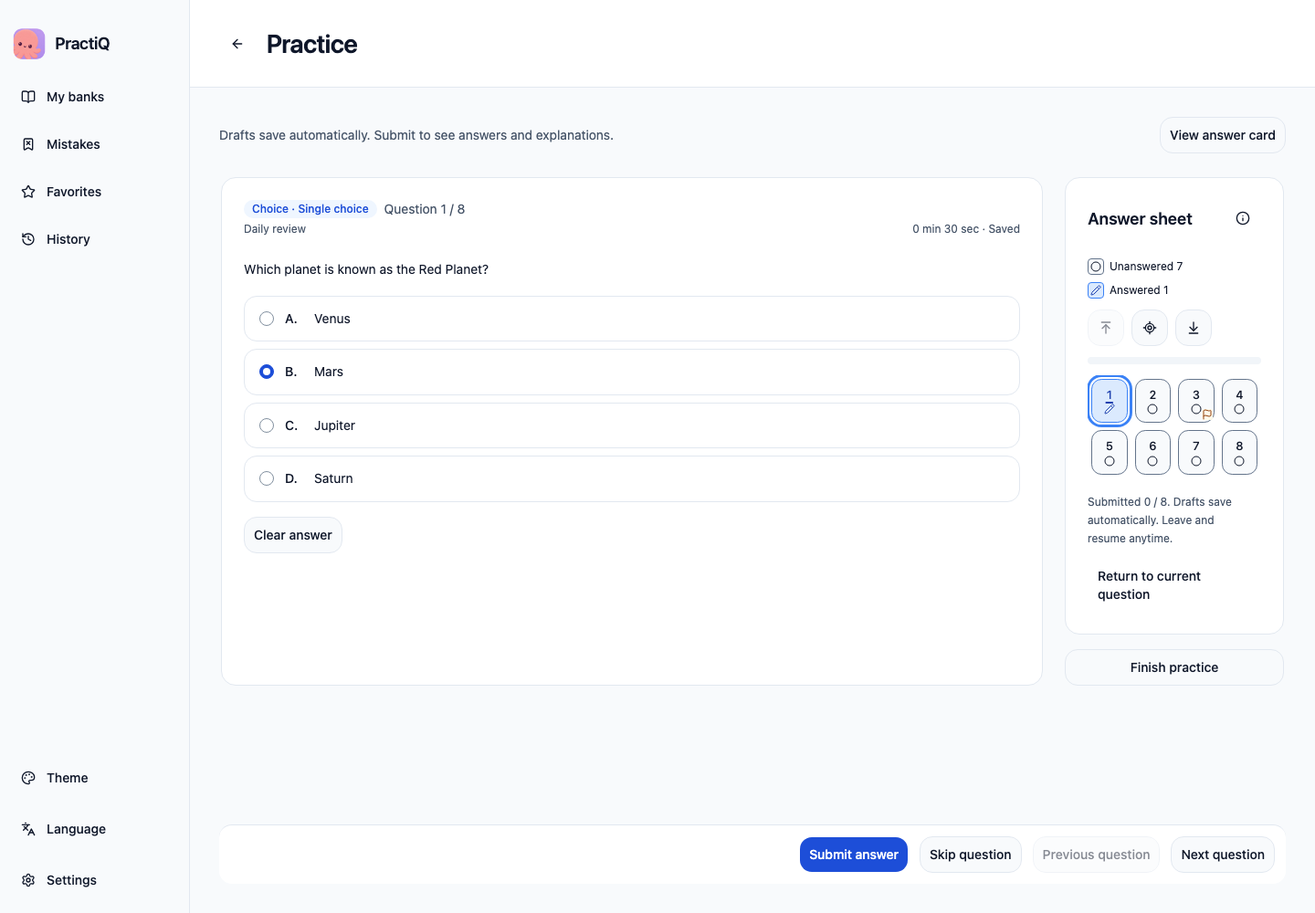
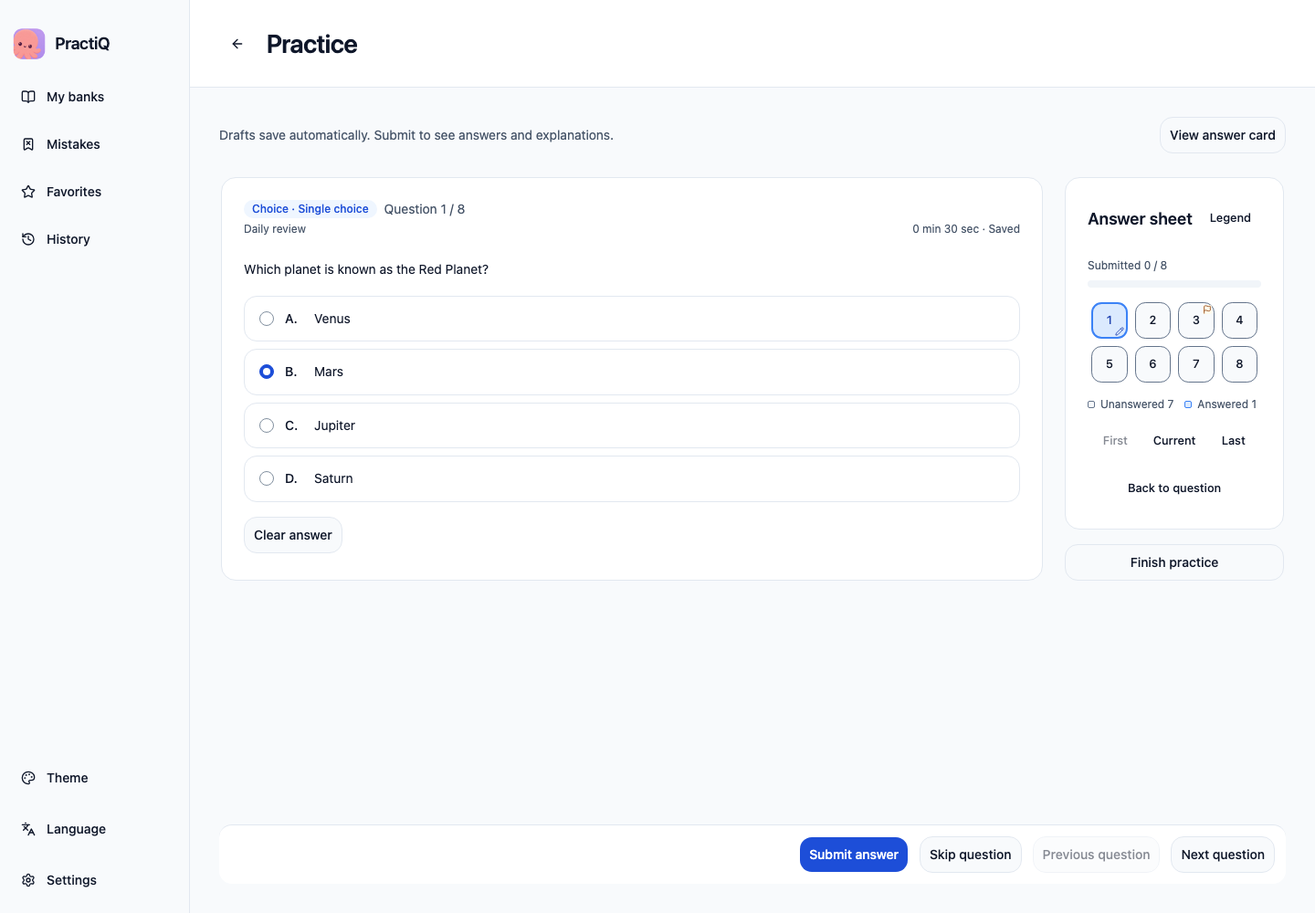
refactor(app): simplify the answer sheet (#467)
* refactor(app): simplify the answer sheet

* docs(readme): refresh captures for the simplified answer sheet

* fix(app): keep the answer sheet finish action reachable

* docs(readme): refresh captures after the answer sheet fix

Changed region(s): [[0.8125, 0.279, 0.9688, 0.682], [0.9062, 0.217, 0.9688, 0.248], [0.875, 0.713, 0.9375, 0.744]]

diff --git a/app/src/Practice.tsx b/app/src/Practice.tsx
@@ -18,7 +18,7 @@ import { Badge } from "@/components/ui/badge";
 import { Card, CardContent, CardHeader, CardTitle } from "@/components/ui/card";
 import { Popover } from "radix-ui";
 import { Dialog, DialogContent, DialogHeader, DialogTitle, DialogTrigger } from "@/components/ui/dialog";
-import { Info, Check, X, SkipForward, Pencil, Circle, CircleDashed, CircleDot, Flag, ArrowUpToLine, ArrowDownToLine, LocateFixed, Star } from "lucide-react";
+import { Check, X, SkipForward, Pencil, CircleDashed, CircleDot, Flag, LocateFixed, Star } from "lucide-react";
 import { AlertDialog, AlertDialogContent, AlertDialogHeader, AlertDialogTitle, AlertDialogDescription, AlertDialogFooter, AlertDialogCancel } from "@/components/ui/alert-dialog";
 import { Content, Markdown, type MaterialReading } from "./Content";
 import { AnswerInput, AnswerDisplay, AnswerReview } from "./AnswerInput";
@@ -87,7 +87,7 @@ export function Practice(props: PracticeProps) {
     {listening && <ListeningPlayer key={`${session.id}-${listening.id}-${listening.audioRef?.sha256}`} question={listening} session={session}/>}
     <div className="grid grid-cols-1 gap-6 @2xl:grid-cols-[minmax(0,1fr)_240px]">
       <PracticeQuestion key={`${session.id}-${session.position}`} {...props} navigating={navigating} go={go} onDraft={onDraft} questionHeading={questionHeading} materialReading={materialReading} actionsContainer={actionsContainer}/>
-      <aside className="min-w-0 self-start space-y-4 @2xl:sticky @2xl:top-0">
+      <aside className="min-w-0 self-start space-y-4">
         <details ref={answerCard} className="practice-answer-card" open={!props.compact}>
           <summary className="font-medium">{t("答题卡")} · {t("第 {0} / {1} 题", {0:session.position + 1,1:session.attempts.length})}</summary>
           <AnswerCard key={session.id} session={session} answer={answer} exam={exam} go={go} boundary={scrollBoundary} compact={!!props.compact}/>
@@ -461,7 +461,7 @@ function hasAnswer(value: unknown): boolean {
 }
 
 const answerCardStates = {
-  unanswered: { label: "未作答", Marker: Circle },
+  unanswered: { label: "未作答", Marker: null },
   answered: { label: "已作答", Marker: Pencil },
   draft: { label: "草稿", Marker: Pencil },
   correct: { label: "正确", Marker: Check },
@@ -498,15 +498,15 @@ const AnswerCardItem = memo(function AnswerCardItem({ordinal, current, state, st
                   size="sm"
                   variant="outline"
                   data-answer-state={status}
-                  className="answer-card-item relative h-auto min-h-10 flex-col gap-0 px-1 py-1"
+                  className="answer-card-item relative h-10 min-h-10 gap-0 px-1 py-1"
                   aria-current={current ? "step" : undefined}
                   aria-label={t("转到第 {0} 题，{1}{2}", { 0: ordinal + 1, 1: state, 2: flagged ? t("，待检查") : "" })}
                   title={`${state}${flagged ? t("，待检查") : ""}`}
                   onClick={() => go(ordinal)}
                 >
-                  <span>{ordinal + 1}</span>
-                  <Marker className="size-3" aria-hidden="true" focusable="false"/>
-                  {flagged && <Flag className="answer-card-flag size-3" aria-hidden="true" focusable="false"/>}
+                  <span className="leading-none">{ordinal + 1}</span>
+                  {Marker && <Marker className="answer-card-marker size-2.5" aria-hidden="true" focusable="false"/>}
+                  {flagged && <Flag className="answer-card-flag size-2.5" aria-hidden="true" focusable="false"/>}
                 </Button>
   );
 });
@@ -515,7 +515,7 @@ function AnswerCardLegend({exam}: {exam: boolean}) {
   return <>
                   <h4 className="mb-2 text-sm font-medium">{t("作答与判定状态")}</h4>
                   <p className="answer-card-legend grid grid-cols-2 gap-x-2 gap-y-2 text-sm text-muted-foreground">
-                    {Object.entries(answerCardStates).filter(([status]) => exam || status !== "partial").map(([status, { label, Marker }]) => <span key={status} className="flex items-center gap-1.5"><span className="answer-card-swatch" data-answer-state={status}><Marker className="size-3" aria-hidden="true"/></span>{t(status === "incorrect" && exam ? "未得满分" : label)}</span>)}
+                    {Object.entries(answerCardStates).filter(([status]) => exam || status !== "partial").map(([status, { label, Marker }]) => <span key={status} className="flex items-center gap-1.5"><span className="answer-card-swatch" data-answer-state={status}>{Marker && <Marker className="size-3" aria-hidden="true"/>}</span>{t(status === "incorrect" && exam ? "未得满分" : label)}</span>)}
                   </p>
                   <h4 className="mb-2 mt-4 text-sm font-medium">{t("位置与检查标记")}</h4>
                   <p className="answer-card-legend grid grid-cols-2 gap-2 text-sm text-muted-foreground">
@@ -532,6 +532,7 @@ const AnswerCard = memo(function AnswerCard({session, answer, exam, go, boundary
   const grid = useRef<HTMLDivElement>(null);
   const finished = session.finishedAt !== null || (exam && session.submittedAt != null);
   const states = session.attempts.map(a => answerState(a, a.ordinal === session.position ? answer : a.answer, exam));
+  const progress = session.attempts.filter(a => exam ? hasAnswer(a.ordinal === session.position ? answer : a.answer) : a.submittedAt != null).length;
   const revealCurrent = useCallback((focus = false) => {
     const container = grid.current;
     const current = container?.querySelector<HTMLElement>('[aria-current="step"]');
@@ -547,7 +548,7 @@ const AnswerCard = memo(function AnswerCard({session, answer, exam, go, boundary
             <CardTitle>{t("答题卡")}</CardTitle>
             {compact ? <Dialog>
               <DialogTrigger asChild>
-                <Button variant="ghost" size="icon" aria-label={t("答题卡状态说明")} title={t("答题卡状态说明")}><Info/></Button>
+                <Button variant="ghost" size="sm" aria-label={t("答题卡状态说明")}>{t("状态说明")}</Button>
               </DialogTrigger>
               <DialogContent className="flex max-h-[90dvh] flex-col" aria-describedby={undefined}>
                 <DialogHeader><DialogTitle className="pr-10">{t("答题卡状态说明")}</DialogTitle></DialogHeader>
@@ -556,7 +557,7 @@ const AnswerCard = memo(function AnswerCard({session, answer, exam, go, boundary
             </Dialog> : (
             <Popover.Root>
               <Popover.Trigger asChild>
-                <Button variant="ghost" size="icon" aria-label={t("答题卡状态说明")} title={t("答题卡状态说明")}><Info/></Button>
+                <Button variant="ghost" size="sm" aria-label={t("答题卡状态说明")}>{t("状态说明")}</Button>
               </Popover.Trigger>
               <Popover.Portal>
                 <Popover.Content className="answer-card-help z-50" side="top" align="end" sideOffset={8} collisionBoundary={boundary} collisionPadding={12} aria-label={t("答题卡状态说明")}>
@@ -571,16 +572,11 @@ const AnswerCard = memo(function AnswerCard({session, answer, exam, go, boundary
             </Popover.Root>
             )}
           </CardHeader>
-          <CardContent>
-            <p className="answer-card-legend mb-3 flex flex-wrap gap-x-3 gap-y-2 text-xs" aria-label={t("本次题目状态")}>
-              {Object.entries(answerCardStates).filter(([status]) => states.some(state => state.status === status)).map(([status, { label, Marker }]) => <span key={status} className="flex items-center gap-1.5"><span className="answer-card-swatch" data-answer-state={status}><Marker className="size-3" aria-hidden="true"/></span>{t(status === "incorrect" && exam ? "未得满分" : label)} {states.filter(state => state.status === status).length}</span>)}
-            </p>
-            <div className="mb-3 flex gap-2">
-              <Button variant="outline" size="icon" aria-label={t("转到第一题")} title={t("转到第一题")} disabled={session.position === 0} onClick={() => go(0)}><ArrowUpToLine/></Button>
-              <Button variant="outline" size="icon" aria-label={t("定位当前题")} title={t("定位当前题")} onClick={() => revealCurrent(true)}><LocateFixed/></Button>
-              <Button variant="outline" size="icon" aria-label={t("转到最后一题")} title={t("转到最后一题")} disabled={session.position === session.attempts.length - 1} onClick={() => go(session.attempts.length - 1)}><ArrowDownToLine/></Button>
+          <CardContent className="flex flex-col gap-3">
+            <div className="flex flex-col gap-2">
+              <p className="text-xs text-muted-foreground">{t("{0} {1} / {2}", { 0: exam ? t("已作答") : t("已提交"), 1: progress, 2: session.attempts.length })}</p>
+              <progress className="practice-progress" aria-label={exam ? t("作答进度") : t("提交进度")} max={Math.max(1, session.attempts.length)} value={progress}/>
             </div>
-            <progress className="practice-progress mb-3" aria-label={exam ? t("作答进度") : t("提交进度")} max={Math.max(1, session.attempts.length)} value={session.attempts.filter(a => exam ? hasAnswer(a.ordinal === session.position ? answer : a.answer) : a.submittedAt != null).length}/>
             <div id="answer-card" ref={grid} role="region" aria-label={t("答题卡")} tabIndex={0} className="answer-card-grid relative grid max-h-[min(45vh,24rem)] grid-cols-4 gap-2 overflow-y-auto rounded-sm p-1 outline-none focus-visible:ring-3 focus-visible:ring-ring">
               {session.attempts.map((a, index) => {
                 const current = a.ordinal === session.position;
@@ -588,8 +584,16 @@ const AnswerCard = memo(function AnswerCard({session, answer, exam, go, boundary
                 return <AnswerCardItem key={a.ordinal} ordinal={a.ordinal} current={current} state={state.label} status={state.status} flagged={!!a.flagged} go={go}/>;
               })}
             </div>
-            <p className="mt-4 text-xs leading-5 text-muted-foreground">{finished ? t("本次共 {0} 题，作答已锁定；可切换题目回顾。", {0:session.attempts.length}) : t("{0} {1} / {2}。草稿自动保存，可随时离开后继续。", { 0: exam ? t("已作答") : t("已提交"), 1: session.attempts.filter((a) => exam ? hasAnswer(a.ordinal === session.position ? answer : a.answer) : a.submittedAt != null).length, 2: session.attempts.length })}</p>
-            <Button asChild variant="ghost" className="mt-3 w-full"><a href="#current-question">{t("返回当前题")}</a></Button>
+            <p className="answer-card-legend answer-card-counts flex flex-wrap gap-x-3 gap-y-1 text-xs text-muted-foreground" aria-label={t("本次题目状态")}>
+              {Object.entries(answerCardStates).filter(([status]) => states.some(state => state.status === status)).map(([status, { label }]) => <span key={status} className="flex items-center gap-1.5"><span className="answer-card-swatch" data-answer-state={status} aria-hidden="true"/>{t(status === "incorrect" && exam ? "未得满分" : label)} {states.filter(state => state.status === status).length}</span>)}
+            </p>
+            {finished && <p className="text-xs leading-5 text-muted-foreground">{t("本次共 {0} 题，作答已锁定；可切换题目回顾。", {0:session.attempts.length})}</p>}
+            <nav className="grid grid-cols-3 gap-1" aria-label={t("答题卡")}>
+              <Button variant="ghost" size="sm" className="min-w-0 px-1" aria-label={t("转到第一题")} disabled={session.position === 0} onClick={() => go(0)}>{t("首题")}</Button>
+              <Button variant="ghost" size="sm" className="min-w-0 px-1" aria-label={t("定位当前题")} onClick={() => revealCurrent(true)}>{t("当前题")}</Button>
+              <Button variant="ghost" size="sm" className="min-w-0 px-1" aria-label={t("转到最后一题")} disabled={session.position === session.attempts.length - 1} onClick={() => go(session.attempts.length - 1)}>{t("末题")}</Button>
+            </nav>
+            <Button asChild variant="ghost" size="sm" className="w-full"><a href="#current-question">{t("返回题目")}</a></Button>
           </CardContent>
         </Card>
   );

diff --git a/app/src/AnswerCardStatus.test.tsx b/app/src/AnswerCardStatus.test.tsx
@@ -21,8 +21,8 @@ function session(attempts: Partial<Attempt>[], exam = false): Session {
 }
 
 it.each([
-  { attempt: {}, label: "未作答", status: "unanswered", marker: "circle", legend: "未作答" },
-  { attempt: { answer: { text: "  " } }, label: "未作答", status: "unanswered", marker: "circle", legend: "未作答" },
+  { attempt: {}, label: "未作答", status: "unanswered", marker: null, legend: "未作答" },
+  { attempt: { answer: { text: "  " } }, label: "未作答", status: "unanswered", marker: null, legend: "未作答" },
   { attempt: { answer: { text: "Draft" } }, label: "已作答，未提交", status: "answered", marker: "pencil", legend: "已作答" },
   { attempt: { answer: { text: "Submitted" }, submittedAt: 1 }, label: "已提交，待判定", status: "pending", marker: "circle-dashed", legend: "待判定" },
   { attempt: { submittedAt: 1, result: true }, label: "正确", status: "correct", marker: "check", legend: "正确" },
@@ -30,20 +30,24 @@ it.each([
   { attempt: { submittedAt: 1, result: false, earnedCents: 100, maxCents: 200 }, exam: true, label: "部分得分", status: "partial", marker: "circle-dot", legend: "部分得分" },
   { attempt: { submittedAt: 1, result: false, earnedCents: 0, maxCents: 200 }, exam: true, label: "未得满分", status: "incorrect", marker: "x", legend: "未得满分" },
   { attempt: { skipped: true, submittedAt: 1, result: false }, label: "已跳过", status: "skipped", marker: "skip-forward", legend: "跳过" },
-])("shows the legend's $marker for $label without changing the accessible name", async ({ attempt, exam, label, status, marker, legend }) => {
+])("keeps $label readable with its compact state marker and accessible name", async ({ attempt, exam, label, status, marker, legend }) => {
   render(<Practice session={session([attempt], exam)} onSession={vi.fn()} run={job => { void job(); }} flushRef={{ current: async () => {} }} />);
   const card = within(screen.getByRole("region", { name: "答题卡" }));
   const button = card.getByRole("button", { name: `转到第 1 题，${label}` });
   // Decorative graphics have no accessible role; inspect their rendered shape.
-  const icon = button.querySelector(`svg.lucide-${marker}`);
-  expect(icon).not.toBeNull();
-  expect(icon?.getAttribute("aria-hidden")).toBe("true");
+  if (marker) {
+    const icon = button.querySelector(`svg.lucide-${marker}`);
+    expect(icon).not.toBeNull();
+    expect(icon?.getAttribute("aria-hidden")).toBe("true");
+  } else expect(button.querySelector("svg")).toBeNull();
   expect(button.textContent).toBe("1");
   expect(button.getAttribute("title")).toBe(label);
   expect(button.getAttribute("aria-current")).toBe("step");
   expect(button.getAttribute("data-answer-state")).toBe(status);
   await userEvent.click(screen.getByRole("button", { name: "答题卡状态说明" }));
-  expect(screen.getByText(legend, { selector: "p > span" }).querySelector(`svg.lucide-${marker}`)).not.toBeNull();
+  const entry = screen.getByText(legend, { selector: "p > span" });
+  if (marker) expect(entry.querySelector(`svg.lucide-${marker}`)).not.toBeNull();
+  else expect(entry.querySelector("svg")).toBeNull();
 });
 
 it("keeps false as an answered draft instead of treating it as null", () => {
@@ -103,7 +107,7 @@ it("updates the current draft marker and preserves flagged keyboard navigation",
   await user.type(screen.getByRole("textbox", { name: "作答内容" }), "Draft");
   expect(screen.getByRole("button", { name: "转到第 1 题，已作答，未提交" }).querySelector("svg.lucide-pencil")).not.toBeNull();
   await user.clear(screen.getByRole("textbox", { name: "作答内容" }));
-  expect(screen.getByRole("button", { name: "转到第 1 题，未作答" }).querySelector("svg.lucide-circle")).not.toBeNull();
+  expect(screen.getByRole("button", { name: "转到第 1 题，未作答" }).querySelector("svg")).toBeNull();
   const flagged = screen.getByRole("button", { name: "转到第 2 题，已作答，未提交，待检查" });
   expect(flagged.querySelector("svg.lucide-flag")).not.toBeNull();
   expect(flagged.getAttribute("data-answer-state")).toBe("answered");

diff --git a/app/src/index.css b/app/src/index.css
@@ -285,11 +285,12 @@ html[lang="en"] [data-button]:not([data-size^="icon"]) {
 }
 .answer-card-item:hover { background: color-mix(in srgb, var(--answer-background), var(--answer-foreground) 8%); color: var(--answer-foreground); }
 [data-answer-state="pending"], [data-answer-state="skipped"] { border-style: dashed; }
-.answer-card-item[aria-current="step"], .answer-card-current { outline: 3px solid var(--ring); outline-offset: 2px; }
-.answer-card-item[aria-current="step"] { text-decoration: underline; text-decoration-thickness: 2px; text-underline-offset: 3px; }
-.answer-card-item:focus-visible { outline: 3px solid var(--ring); outline-offset: 2px; }
-.answer-card-flag { position: absolute; bottom: 2px; right: 1px; border-radius: 2px; background: var(--warning-background); color: var(--warning-foreground); }
+.answer-card-item[aria-current="step"], .answer-card-current { border-width: 2px; border-color: var(--ring); outline: none; }
+.answer-card-item:focus-visible { outline: 3px solid var(--ring); outline-offset: 2px; box-shadow: none; }
+.answer-card-marker { position: absolute; bottom: 1px; right: 2px; }
+.answer-card-flag { position: absolute; top: 2px; right: 2px; border-radius: 2px; background: var(--warning-background); color: var(--warning-foreground); }
 .answer-card-swatch { display: inline-flex; flex-shrink: 0; align-items: center; justify-content: center; width: 1.125rem; height: 1.125rem; border-radius: 4px; }
+.answer-card-counts .answer-card-swatch { width: 0.5rem; height: 0.5rem; border-radius: 2px; }
 .answer-card-current { background: var(--card); color: var(--primary); border-color: var(--primary); }
 .answer-card-review { background: var(--warning-background); color: var(--warning-foreground); border-color: var(--warning-border); }
 @media (max-width: 767px) {

diff --git a/app/src/PracticeFeedback.test.tsx b/app/src/PracticeFeedback.test.tsx
@@ -337,14 +337,14 @@ it("counts partial drafts and false answers but excludes empty values, including
   }));
   vi.mocked(api).mockResolvedValue(initial);
   render(<Study initial={initial} />);
-  expect(screen.getByText("已作答 2 / 5。草稿自动保存，可随时离开后继续。")).toBeTruthy();
+  expect(screen.getByText("已作答 2 / 5")).toBeTruthy();
   expect(screen.getByRole("button", { name: "转到第 2 题，未作答" })).toBeTruthy();
   expect(screen.getByRole("button", { name: "转到第 3 题，草稿未完成" })).toBeTruthy();
   expect(screen.getByRole("button", { name: "转到第 4 题，已作答，未提交" })).toBeTruthy();
   await user.type(screen.getByRole("textbox", { name: "作答内容" }), "answer");
-  expect(screen.getByText("已作答 3 / 5。草稿自动保存，可随时离开后继续。")).toBeTruthy();
+  expect(screen.getByText("已作答 3 / 5")).toBeTruthy();
   await user.clear(screen.getByRole("textbox", { name: "作答内容" }));
-  expect(screen.getByText("已作答 2 / 5。草稿自动保存，可随时离开后继续。")).toBeTruthy();
+  expect(screen.getByText("已作答 2 / 5")).toBeTruthy();
 });
 
 it("announces an exam score only once and focuses a heading with its question number", () => {

diff --git a/app/src/locales/zh-TW.ts b/app/src/locales/zh-TW.ts
@@ -455,7 +455,11 @@ export const zhTW: Record<keyof typeof en, string> = {
   "已提交": "已提交",
   "跳过": "跳過",
   "已作答": "已作答",
-  "{0} {1} / {2}。草稿自动保存，可随时离开后继续。": "{0} {1} / {2}。草稿自動儲存，可隨時離開後繼續。",
+  "{0} {1} / {2}": "{0} {1} / {2}",
+  "状态说明": "狀態說明",
+  "首题": "首題",
+  "末题": "末題",
+  "返回题目": "返回題目",
   "交卷": "交卷",
   "结束练习": "結束練習",
   "确认交卷？": "確認交卷？",

diff --git a/app/src/locales/en.ts b/app/src/locales/en.ts
@@ -466,7 +466,11 @@ export const en = {
   "已提交": "Submitted",
   "跳过": "Skipped",
   "已作答": "Answered",
-  "{0} {1} / {2}。草稿自动保存，可随时离开后继续。": "{0} {1} / {2}. Drafts save automatically. Leave and resume anytime.",
+  "{0} {1} / {2}": "{0} {1} / {2}",
+  "状态说明": "Legend",
+  "首题": "First",
+  "末题": "Last",
+  "返回题目": "Back to question",
   "交卷": "Submit exam",
   "结束练习": "Finish practice",
   "确认交卷？": "Submit this exam?",

diff --git a/docs/guides/practice-guide.md b/docs/guides/practice-guide.md
@@ -72,6 +72,6 @@ Shared dialogs, confirmation dialogs and menus respect the system reduced-motion
 
 ## Workspace controls
 
-Create an empty bank with **新建题库** and append content through **Settings → Import and restore → Import bank ZIP**. Start practice from the bank card. The bank question page is for browsing: its header has no import, add-question or start-practice buttons, and its filters cover search and question type, not pending review. Review imported content during import; saved quality warnings remain visible. Each question row places the type label before its content on the same line. Session setup explains practice, untimed self-test and timed exam behavior and offers only feasible quick counts. **查看答题卡** and **返回当前题** move between question content and navigation while preserving drafts. The answer-card progress bar counts submitted questions in practice and drafts with content in exams.
+Create an empty bank with **新建题库** and append content through **Settings → Import and restore → Import bank ZIP**. Start practice from the bank card. The bank question page is for browsing: its header has no import, add-question or start-practice buttons, and its filters cover search and question type, not pending review. Review imported content during import; saved quality warnings remain visible. Each question row places the type label before its content on the same line. Session setup explains practice, untimed self-test and timed exam behavior and offers only feasible quick counts. **查看答题卡** and **返回题目** move between question content and navigation while preserving drafts. The answer card places labeled progress above compact question numbers, followed by state counts and text controls for the first, current and last question. The card and finish action scroll with the practice content so both remain reachable in short windows. Unanswered cells show their number; answered, grading and review markers remain distinct, with the full legend under **状态说明**. The progress bar counts submitted questions in practice and drafts with content in exams.
 
 Question editors and ZIP import dialogs keep their actions outside the scrolling content. Score review follows question/reference context, separates confirmed scores from pending results, and keeps visible labels on manual score/reason inputs. Connection-test feedback remains in the form until another test or an address/token edit. See [Workspace UX decisions](../product/ux-workspace.md) for the complete review and verification scope.

diff --git a/README.md b/README.md
@@ -17,7 +17,7 @@ PractiQ works in English, Simplified Chinese and Traditional Chinese, with light
 
 ## Screenshots
 
-These screenshots were captured on **2026-10-29** from the desktop browser preview at [`0099f594`](https://github.com/shenyankm/PractiQ/commit/0099f5949b8b1b72c25f7939659b8cb1ce9d6041), in English with hand-written sample banks and practice records. All data is held in memory; no credentials, uploads or model calls were used. Click an image to view it at full size.
+These screenshots were captured on **2026-10-29** from the desktop browser preview at [`af7ab2ff`](https://github.com/shenyankm/PractiQ/commit/af7ab2ff3bf4a392103b403d73b70f0d1a5cd533), in English with hand-written sample banks and practice records. All data is held in memory; no credentials, uploads or model calls were used. Click an image to view it at full size.
 
 | Question banks | Practice |
 | :---: | :---: |

diff --git a/README.zh-TW.md b/README.zh-TW.md
@@ -19,7 +19,7 @@
 
 ## 螢幕截圖
 
-以下截圖於 **2026-10-29** 使用原始碼 [`0099f594`](https://github.com/shenyankm/PractiQ/commit/0099f5949b8b1b72c25f7939659b8cb1ce9d6041) 的桌面介面瀏覽器預覽拍攝，介面為英文，題庫與練習紀錄皆為人工編寫的範例。所有資料只存放在記憶體中，未輸入憑證、上傳檔案或呼叫模型。點選圖片即可查看原始大小。
+以下截圖於 **2026-10-29** 使用原始碼 [`af7ab2ff`](https://github.com/shenyankm/PractiQ/commit/af7ab2ff3bf4a392103b403d73b70f0d1a5cd533) 的桌面介面瀏覽器預覽拍攝，介面為英文，題庫與練習紀錄皆為人工編寫的範例。所有資料只存放在記憶體中，未輸入憑證、上傳檔案或呼叫模型。點選圖片即可查看原始大小。
 
 | 題庫 | 作答 |
 | :---: | :---: |

diff --git a/README.zh-CN.md b/README.zh-CN.md
@@ -17,7 +17,7 @@
 
 ## 截图
 
-以下截图于 **2026-10-29** 基于源码 [`0099f594`](https://github.com/shenyankm/PractiQ/commit/0099f5949b8b1b72c25f7939659b8cb1ce9d6041) 的桌面界面浏览器预览拍摄，界面为英文，题库和练习记录均为人工编写的示例。所有数据只保存在内存中，没有输入凭据、上传文件或调用模型。点击图片可查看原图。
+以下截图于 **2026-10-29** 基于源码 [`af7ab2ff`](https://github.com/shenyankm/PractiQ/commit/af7ab2ff3bf4a392103b403d73b70f0d1a5cd533) 的桌面界面浏览器预览拍摄，界面为英文，题库和练习记录均为人工编写的示例。所有数据只保存在内存中，没有输入凭据、上传文件或调用模型。点击图片可查看原图。
 
 | 题库 | 答题 |
 | :---: | :---: |
